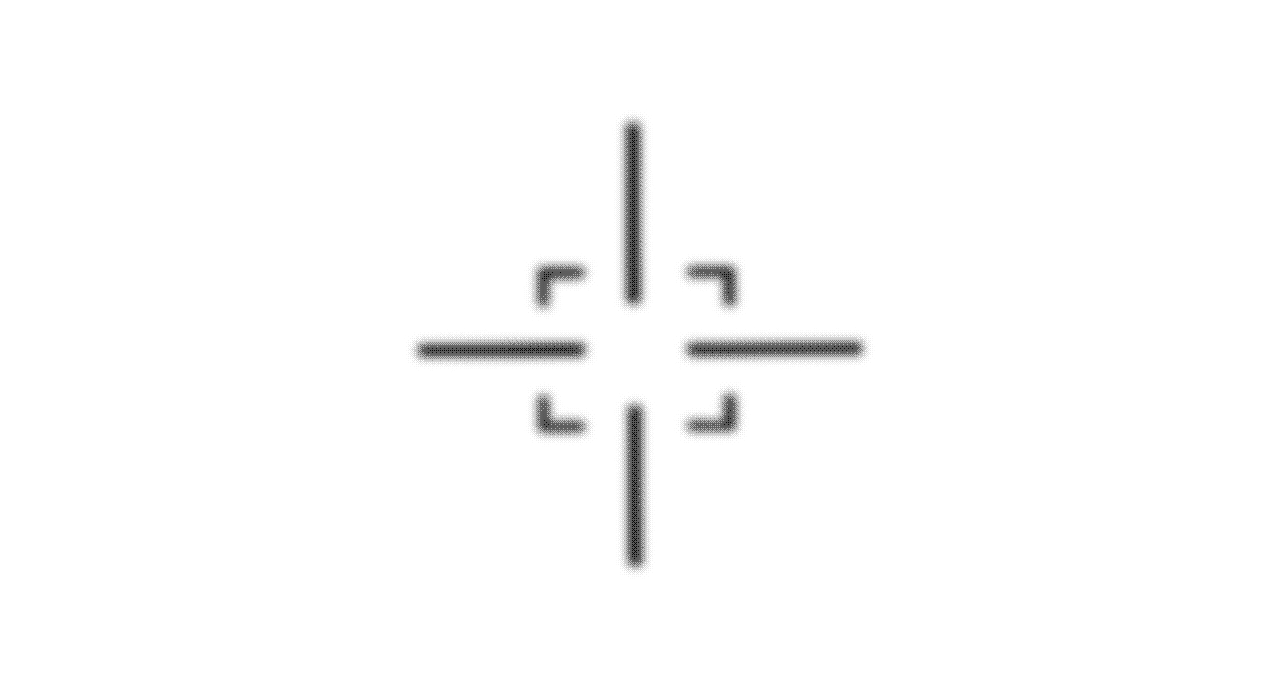
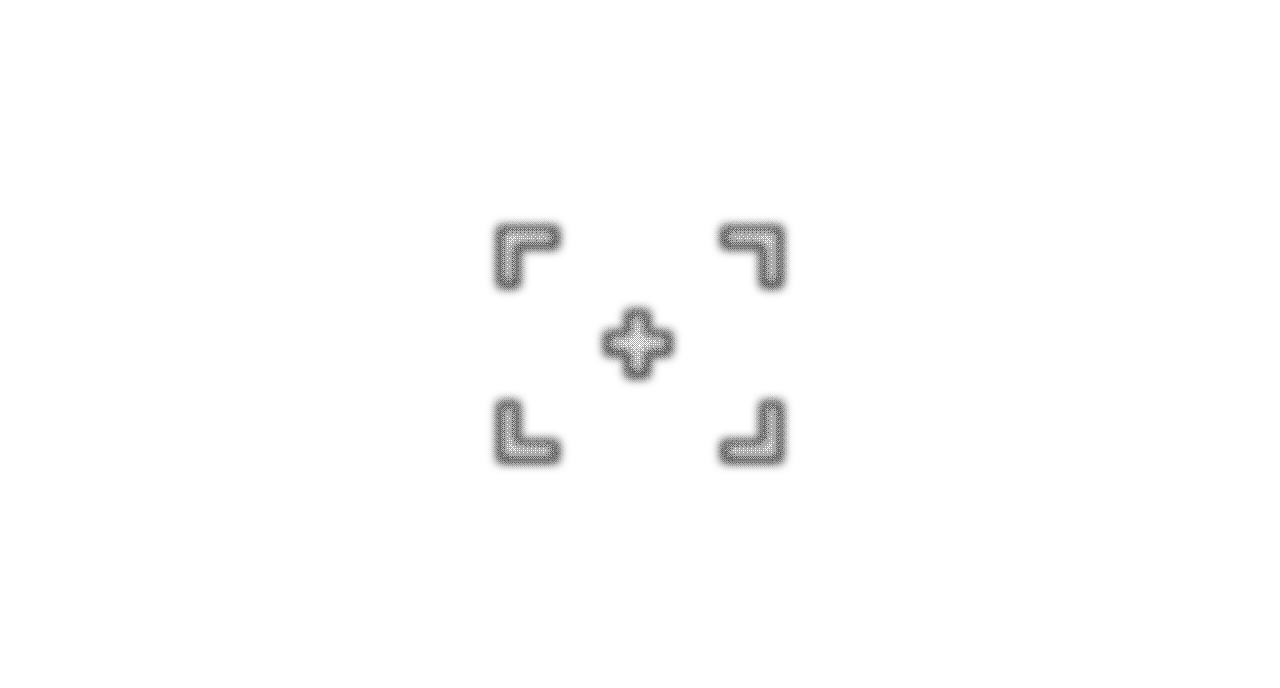
Project 1 - Finalized the project, lots of changes!
- Added stop functionality to the sounds
- Added a timer that dictates when the states switch
- Added an end state that stops all of the music, displays the end screen, and plays the theme song
- Fixed the image that displays when the mouse hovers over the conversation
- Changed the size of the conversation to make it easier to find
- Made a new scope image in the hopes that it looks less like a weapon
- Also got rid of the cursor in CSS
- Cleaned up the code, added some more comments
- Added a brief "How to Play" and description as comments

Changed region(s): [[0.3125, 0.1526, 0.6875, 0.8241]]

diff --git a/projects/project1/js/script.js b/projects/project1/js/script.js
@@ -1,33 +1,50 @@
 /**
 Project 1 - The Conversation
-Gia <3
+by Gia
+
+This is my first attempt at using spatial sound in p5 in order to create an approximation of the titular scene from the movie, "The Conversation" (1974).
+
+Notes on how to play:
+- Takes 10 seconds to switch from the title screen to the main game
+- The goal/controls are very simple, just move the mouse and attempt to hover over the conversation
+- After the conversation is over, an end screen will display
 
 */
 
 "use strict";
 
-let state = "game";
+//begin with the title state
+let state = "title";
 
+//defining a timer that will be used to switch between states
+let timer;
+
+//defining the themesong soundloop and giving it a "isplaying" property to stop harsh noise
 let themeSong = {
   isplaying: false,
 };
 
+//defining a font
 let font;
-let titleImg;
 
+//defining an ambient soundloop and giving it a "isplaying" property to stop harsh noise
 let ambientSound = {
   isplaying: false,
 };
 
-let backgroundImg;
-let endImg;
-
+//defining audioObejcts array and properties
 let audioObjects = [];
 let numAudioObjects = 10;
 
+//defining convo array and properties
 let convoObjects = [];
 let numConvoObjects = 1;
 let convoSound;
+
+//defining image assets
+let titleImg;
+let backgroundImg;
+let endImg;
 let convoImg;
 let scopeImg;
 
@@ -41,10 +58,13 @@ let voicesSound;
 let skatersSound;
 
 function preload() {
+  //preload the theme, a total banger
   themeSong = loadSound(`assets/sounds/themesong.mp3`);
 
+  //preload a font
   font = loadFont(`assets/fonts/font.ttf`);
 
+  //preload the images
   titleImg = loadImage(`assets/images/titleImg.png`);
   backgroundImg = loadImage(`assets/images/background.gif`);
   convoImg = loadImage(`assets/images/convoImg.gif`);
@@ -66,6 +86,8 @@ function preload() {
   voicesSound = loadSound(`assets/sounds/voices.mp3`);
   skatersSound = loadSound(`assets/sounds/skaters.mp3`);
 }
+
+//~~~~~~~~~~~~~~~~~~~~~~~~~~~~~~~~~~~~~~~~~~~~~~~~~~~~~~~~~~~~~~~~~~~~~ SETUP
 
 function setup() {
   createCanvas(800, 600);
@@ -128,7 +150,16 @@ function setup() {
   audioObjects.push(skaters);
 }
 
+//~~~~~~~~~~~~~~~~~~~~~~~~~~~~~~~~~~~~~~~~~~~~~~~~~~~~~~~~~~~~~~~~~~~~~ DRAW
+
 function draw() {
+  //begins the timer that will be used to switch states
+  timer = millis();
+
+  //divide the millis into an integer for ease of use
+  timer = int(timer / 1000);
+  console.log(timer);
+
   //State switching !
   if (state === "title") {
     drawTitle();
@@ -139,12 +170,17 @@ function draw() {
   }
 }
 
+//~~~~~~~~~~~~~~~~~~~~~~~~~~~~~~~~~~~~~~~~~~~~~~~~~~~~~~~~~~~~~~~~~~~~~ TITLE
 function drawTitle() {
   background(titleImg);
-  push();
-  textSize(40);
-  text("The Conversation - an interactive scene from the film", 0, 0);
-  pop();
+
+  //a little counter to show that this is time-based
+  text(timer, 765, 565);
+
+  //after 10 seconds, switch states
+  if (timer == 10) {
+    state = "game";
+  }
 
   //make sure to only play the theme song as a single loop
   if (!themeSong.isplaying) {
@@ -153,10 +189,22 @@ function drawTitle() {
   }
 }
 
+//~~~~~~~~~~~~~~~~~~~~~~~~~~~~~~~~~~~~~~~~~~~~~~~~~~~~~~~~~~~~~~~~~~~~~ GAME
+
 function drawGame() {
   background(backgroundImg);
+
+  //stop the theme music :(
   themeSong.stop();
+  themeSong.isplaying = false;
+
+  //get a scope on the mouse
   mouseScope();
+
+  //at 230 seconds, after the conversation finishes, switch states to the end
+  if (timer == 230) {
+    state = "end";
+  }
 
   //make sure to only play the ambient sound as a single loop
   if (!ambientSound.isplaying) {
@@ -164,7 +212,7 @@ function drawGame() {
     ambientSound.isplaying = true;
   }
 
-  // Display the ConvoObject
+  // go through the convoObjects array and begin all necessary functions
   for (let i = 0; i < convoObjects.length; i++) {
     let convoObject = convoObjects[i];
     convoObject.play();
@@ -173,7 +221,7 @@ function drawGame() {
     convoObject.spatialVolume();
   }
 
-  // Go through the audioObject array and display and move each
+  // Go through the audioObject array and begin all necessary functions
   for (let i = 0; i < audioObjects.length; i++) {
     let audioObject = audioObjects[i];
     audioObject.play();
@@ -182,13 +230,36 @@ function drawGame() {
   }
 }
 
-function drawEnd() {
-  background(endImg);
-}
-
+//a function that will put a scope on the mouse (for during the game state)
 function mouseScope() {
   push();
   imageMode(CENTER);
-  image(scopeImg, mouseX, mouseY);
+  image(scopeImg, mouseX, mouseY, 450, 275);
   pop();
+}
+
+//~~~~~~~~~~~~~~~~~~~~~~~~~~~~~~~~~~~~~~~~~~~~~~~~~~~~~~~~~~~~~~~~~~~~~ END
+function drawEnd() {
+  background(endImg);
+
+  //stop the ambient loop,
+  ambientSound.stop();
+
+  //stop the conversation from playing,
+  for (let i = 0; i < convoObjects.length; i++) {
+    let convoObject = convoObjects[i];
+    convoObject.stop();
+  }
+
+  // stop all the sound I say!
+  for (let i = 0; i < audioObjects.length; i++) {
+    let audioObject = audioObjects[i];
+    audioObject.stop();
+  }
+
+  //and let's get this rippin' theme loop going again \m/,
+  if (!themeSong.isplaying) {
+    themeSong.loop();
+    themeSong.isplaying = true;
+  }
 }

diff --git a/projects/project1/js/ConvoObject.js b/projects/project1/js/ConvoObject.js
@@ -1,21 +1,30 @@
 class ConvoObject {
-  //basic properties of the AudioObject class
+  //basic properties of the ConvoObject class
   constructor(x, y, sound) {
     this.x = x;
     this.y = y;
     this.vx = 2;
     this.vy = 2;
     this.sound = sound;
-    this.size = 200;
+    this.size = 400;
     this.speed = 3.25;
     this.changeDirection = 0.2;
     this.isplaying = false;
   }
 
+  //check to see if it is playing!
   play() {
     if (!this.isplaying) {
       this.sound.loop();
       this.isplaying = true;
+    }
+  }
+
+  //adding a stop ability for the end state
+  stop() {
+    if (this.isplaying) {
+      this.sound.stop();
+      this.isplaying = false;
     }
   }
 
@@ -36,13 +45,7 @@ class ConvoObject {
     this.y = constrain(this.y, 0, height);
   }
 
-  display() {
-    {
-      imageMode(CORNER);
-      image(convoImg, 0, 0, 800, 600);
-    }
-  }
-
+  //check if the mouse is hovering over the conversation
   mouseOver() {
     let d = dist(mouseX, mouseY, this.x, this.y);
     if (d < this.size / 2) {
@@ -50,6 +53,15 @@ class ConvoObject {
     }
   }
 
+  //if the mouse hovers over the conversation, this image is displayed
+  display() {
+    {
+      imageMode(CORNER);
+      image(convoImg, 0, 0, 800, 600);
+    }
+  }
+
+  //Pippin's wonderful code that got me started on spatial audio
   spatialVolume() {
     let volume = map(dist(mouseX, mouseY, this.x, this.y), 0, 250, 1, 0);
     volume = constrain(volume, 0, 1);

diff --git a/projects/project1/js/AudioObject.js b/projects/project1/js/AudioObject.js
@@ -12,10 +12,19 @@ class AudioObject {
     this.isplaying = false;
   }
 
+  //check to see if it is playing!
   play() {
     if (!this.isplaying) {
       this.sound.loop();
       this.isplaying = true;
+    }
+  }
+
+  //adding a stop ability for the end state
+  stop() {
+    if (this.isplaying) {
+      this.sound.stop();
+      this.isplaying = false;
     }
   }
 
@@ -36,6 +45,7 @@ class AudioObject {
     this.y = constrain(this.y, 0, height);
   }
 
+  //Pippin's wonderful code that got me started on spatial audio
   spatialVolume() {
     let volume = map(dist(mouseX, mouseY, this.x, this.y), 0, 250, 1, 0);
     volume = constrain(volume, 0, 1);

diff --git a/projects/project1/css/style.css b/projects/project1/css/style.css
@@ -10,6 +10,7 @@ Also hides overflow.
 **********************************************/
 
 body {
+  cursor: none;
   padding: 0;
   margin: 0;
   display: grid; /* Set up the grid and justify/align to center */
